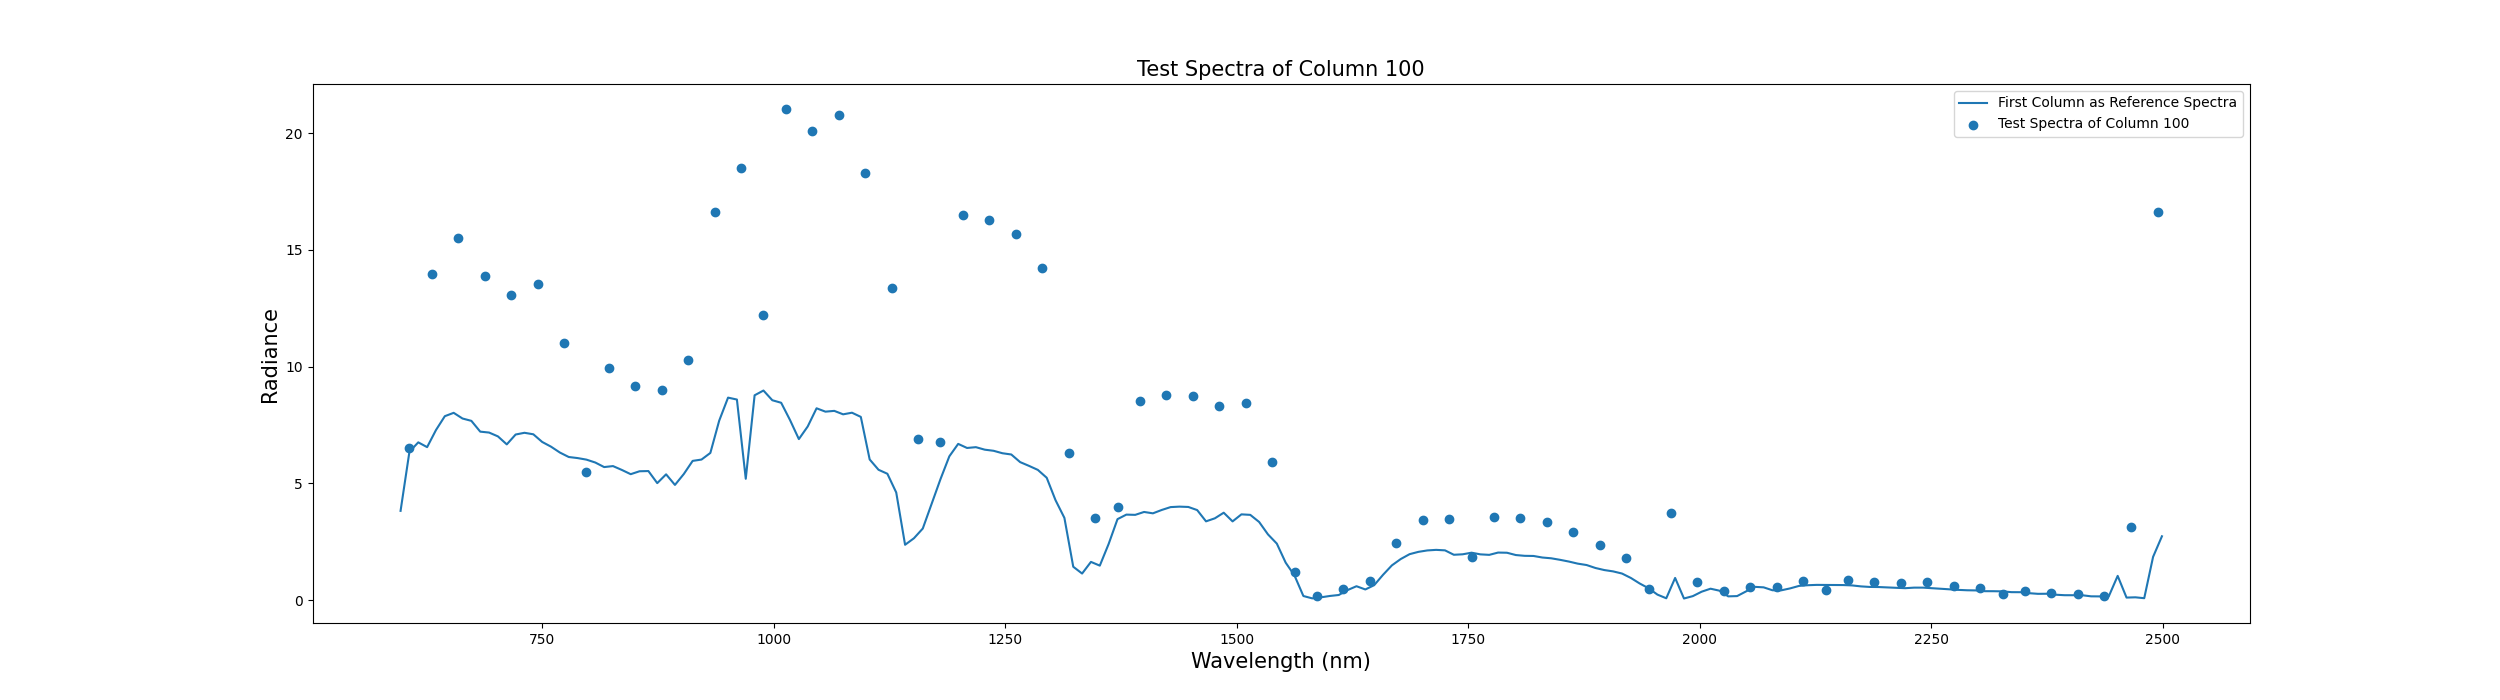
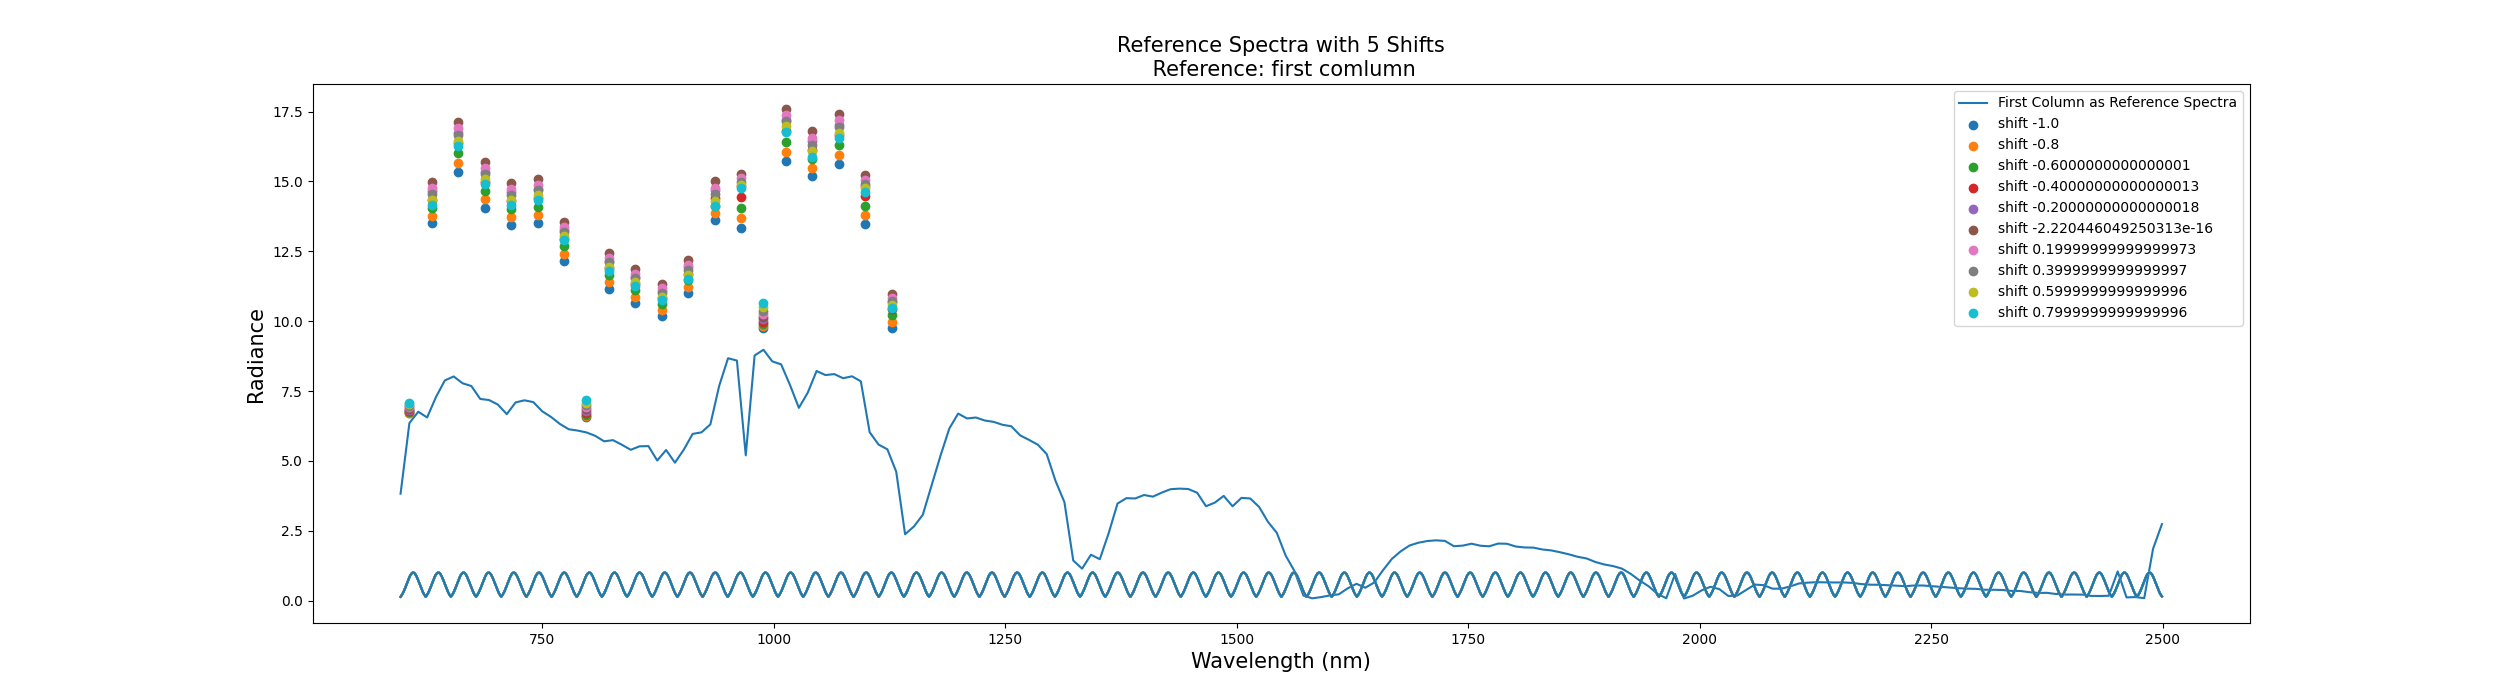
minor unfinished fixes

diff --git a/smile/plot_config.py b/smile/plot_config.py
@@ -60,7 +60,7 @@ def plot_column_average_spectra(save=True, row_to_plot = None):
         fig.savefig(f"{PlotFolder}ColumnAverageSpectra{row_text}.png")
 
 # create_ref_and_test_spectra
-def plot_resampled_ref_spectra(save=True, crop_range=None, to_be_plotted=None):
+def plot_resampled_ref_spectra(wl = wavelength, save=True, crop_range=None, to_be_plotted=None):
     """Plots resampled reference spectra along with the shifts.
     Args:
         save (bool): If True, saves the plot to the current directory.
@@ -74,9 +74,9 @@ def plot_resampled_ref_spectra(save=True, crop_range=None, to_be_plotted=None):
 
     if crop_range is not None:
         crop_start, crop_end = crop_range
-        band_length = int((max(wavelength) - min(wavelength)) / main.g_num_of_bands)
-        crop_band_start = crop_start * band_length # TODO: add this
-        crop_band_end = (crop_end + 1) * band_length
+        band_length = int((max(wl) - min(wl)) / main.g_num_of_bands)
+        crop_wl_start = crop_start * band_length
+        crop_wl_end = (crop_end + 1) * band_length
 
     # # Retrieve data
     input_data = np.load(f'{DataFolder}column_averaged_spectra.npz',mmap_mode='r')['cas']
@@ -88,10 +88,6 @@ def plot_resampled_ref_spectra(save=True, crop_range=None, to_be_plotted=None):
     reference_spectra, sensors_position_reference, srf_columns_reference = reference_
     test_spectra, sensors_position_test, srf_columns_test = test_
 
-    # # Crop data
-    # cropped_reference = [i[crop_start:crop_end] for i in reference_spectra]
-    # cropped_test = [i[crop_start:crop_end] for i in test_spectra]
-
     # # Plot data
     fig, reference_plot = plt.subplots(1, 1, figsize=(25, 7))
 
@@ -100,27 +96,41 @@ def plot_resampled_ref_spectra(save=True, crop_range=None, to_be_plotted=None):
 
     # Plot the original data
     if main.MODTRAN_data is None:
-        reference_plot.plot(wavelength, input_data[0], label='First Column as Reference Spectra')
+        if crop_range is not None:
+            wl = wl[crop_wl_start:crop_wl_end]
+            input_data = input_data[crop_wl_start:crop_wl_end]
+        reference_plot.plot(wl, input_data[0], label='First Column as Reference Spectra')
         ref_ = "\n Reference: first comlumn"
     else:
-        reference_plot.plot(wavelength, main.MODTRAN_data, label='RefSerence Spectra from MODTRAN')
+        ref_data = main.MODTRAN_data
+        if crop_range is not None:
+            wl = wl[crop_wl_start:crop_wl_end]
+            ref_data = input_data[crop_wl_start:crop_wl_end]
+        reference_plot.plot(wl, ref_data, label='RefSerence Spectra from MODTRAN')
 
     fig_title = 'empty'
 
     # Plot the results
     if to_be_plotted == 'reference':
-        sensors_positions = stretch_horizontal(sensors_position_reference[0], wavelength)
+        sensors_positions = stretch_horizontal(sensors_position_reference[0], wl)
         fig_title = f"Reference Spectra with {main.g_num_shifts_1D} Shifts"
         for i, ref_shift in enumerate(reference_spectra):
+            if crop_range is not None:
+                sensors_positions = sensors_positions[crop_start:crop_end]
+                ref_shift = ref_shift[crop_start:crop_end]
             reference_plot.scatter(sensors_positions, ref_shift, label=f'shift {shift_range[i]}')
-            reference_plot.plot(np.linspace(min(wavelength), max(wavelength), main.g_num_of_bands*100), srf_columns_reference[i])
+            reference_plot.plot(np.linspace(min(wl), max(wl), main.g_num_of_bands*100), srf_columns_reference[i])
+
     elif to_be_plotted < len(test_spectra):
         # print(np.shape(sensors_position_test[to_be_plotted][0]), np.shape(test_spectra[to_be_plotted][0]))
-        sensors_positions = stretch_horizontal(sensors_position_test[to_be_plotted][0], wavelength)
+        sensors_positions = stretch_horizontal(sensors_position_test[to_be_plotted][0], wl)
         reference_plot.scatter(sensors_positions, test_spectra[to_be_plotted][0], label=f'Test Spectra of Column {to_be_plotted}')
+        reference_plot.plot(np.linspace(min(wl), max(wl), main.g_num_of_bands*100), srf_columns_test[to_be_plotted][0], label=f'SRF of Column {to_be_plotted}') # TODO: Crop this
         fig_title = f"Test Spectra of Column {to_be_plotted}"
+
     elif to_be_plotted >= len(test_spectra):
         raise UserWarning(f"Error: to_be_plotted is {to_be_plotted}, which is greater than the number of columns in the test spectra ({len(test_spectra)}).")
+    
     elif to_be_plotted is None:
         raise UserWarning("Error: to_be_plotted is None. Please specify what to be plotted.")
     
@@ -163,6 +173,7 @@ def plot_spectral_angle(column_to_plot = None, save=True):
     if save:
         fig.savefig(f"{PlotFolder}SpectralAngle.png")
 
+
 # plot_column_average_spectra()
-# plot_resampled_ref_spectra(save=True, to_be_plotted=100)
+plot_resampled_ref_spectra(save=True, crop_range=(0, 20), to_be_plotted='reference')
 # plot_spectral_angle()
